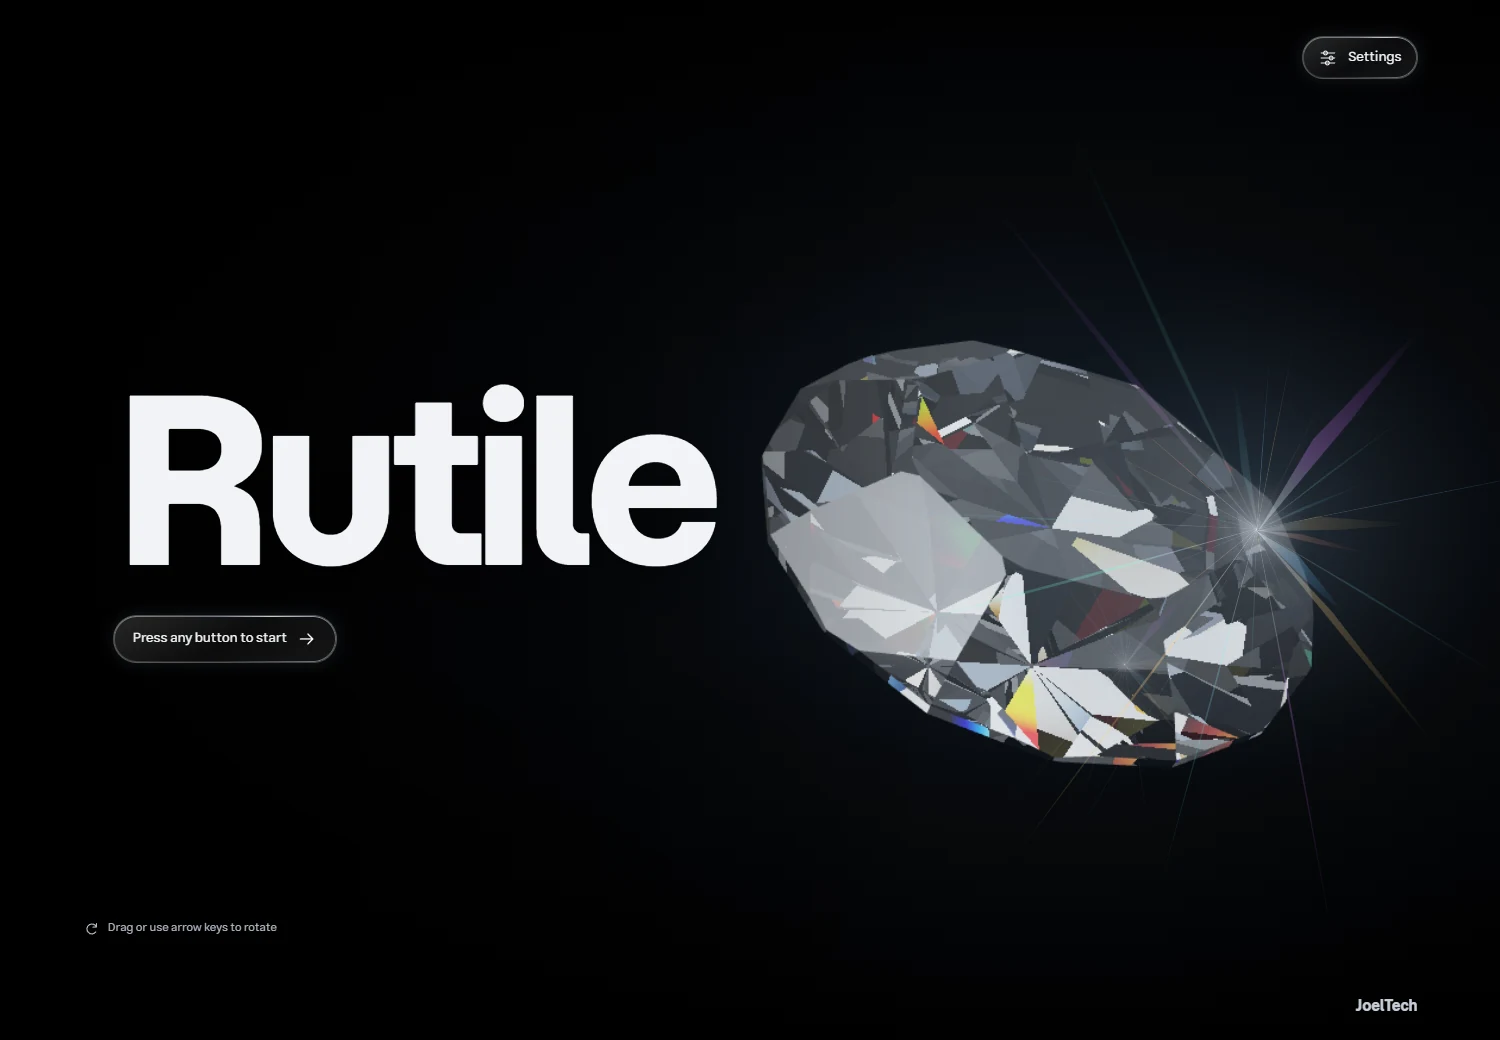
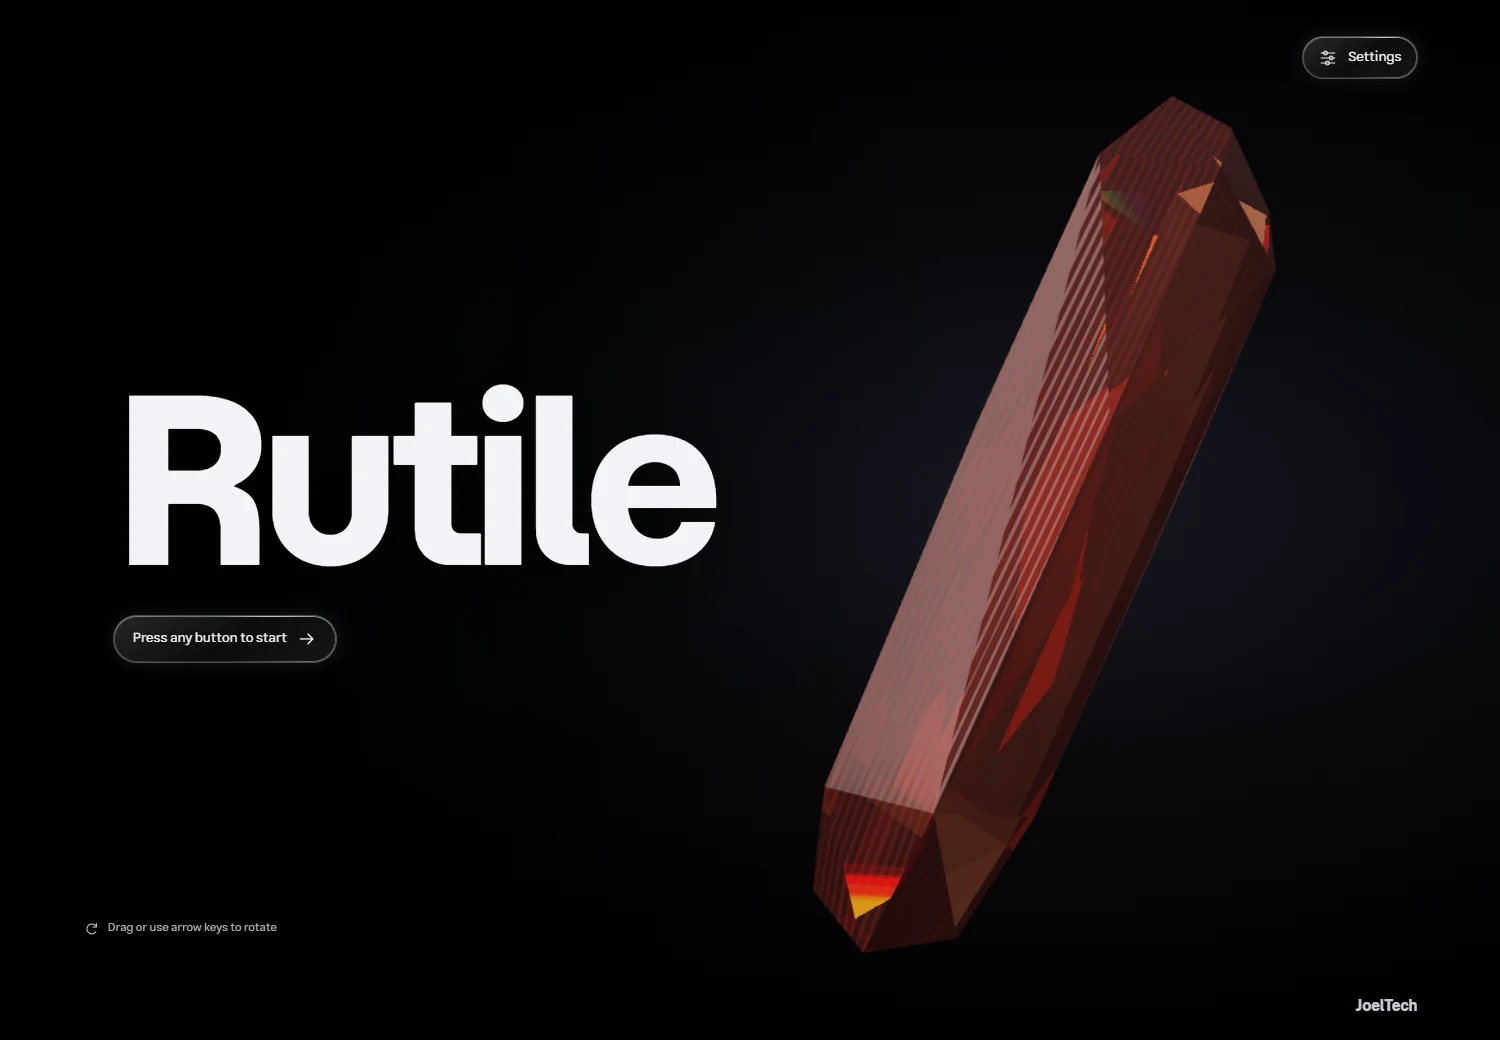
Improve natural rutile crystal appearance

Changed region(s): [[0.4907, 0.0923, 0.92, 0.9231]]

diff --git a/frontend/src/js/gem-optics.js b/frontend/src/js/gem-optics.js
@@ -94,11 +94,26 @@ void main() {
   vec3 normal = facet;
   float veins = 0.;
   if (natural) {
-    veins = grain(surface * vec3(55., 8., 55.)) * .65 + grain(surface * vec3(168., 24., 168.)) * .35;
-    vec3 streak = vec3(
-      grain(surface * vec3(72., 5., 40.)), grain(surface * 38.),
-      grain(surface * vec3(43., 7., 81.))) - .5;
-    normal = normalize(normal + streak * (.075 + .13 * veins));
+    // Growth striations run along the crystal's y axis. Measure across each
+    // face in its own tangent direction rather than stretching 3-D noise.
+    vec3 across = cross(vec3(0., 1., 0.), facet);
+    float side = length(across);
+    across /= max(side, .0001);
+    float u = dot(surface, across);
+    float warp = (grain(vec3(u * 9., surface.y * .7, 1.3)) - .5) * .012;
+    warp += (grain(vec3(u * 32., surface.y * 1.8, 4.7)) - .5) * .003;
+    float phase = (u + warp) * 260.;
+    float finePhase = (u + warp * .55) * 570.;
+    // Fade subpixel grooves to avoid flickering as the specimen rotates.
+    float visible = 1. - smoothstep(.7, 2.5, fwidth(phase));
+    float fineVisible = 1. - smoothstep(.7, 2.5, fwidth(finePhase));
+    float variation = grain(vec3(u * 24., surface.y * 2.4, 2.1));
+    float weathering = grain(surface * vec3(38., 9., 38.)) - .5;
+    float groove = (sin(phase) * visible + .32 * sin(finePhase) * fineVisible)
+      * (.45 + .8 * variation) + .22 * weathering;
+    float striated = smoothstep(.12, .5, side);
+    normal = normalize(facet + across * groove * .075 * striated);
+    veins = (.5 + .5 * sin(phase)) * visible * striated;
   }
 
   float index = natural ? 2.54 : 2.64;
@@ -112,8 +127,16 @@ void main() {
     vec3 wall;
     float length = exitDistance(point, ray, wall);
     if (length >= 100.) break;
+    if (natural && bounce == 0) {
+      // Two interior samples suggest inclusions and cloudy growth zones;
+      // this is an artistic volume approximation, not measured material data.
+      float cloud = grain((point + ray * length * .30) * vec3(7., 3., 7.));
+      cloud = .65 * cloud + .35 * grain((point + ray * length * .68) * vec3(15., 6., 15.));
+      energy *= exp(-vec3(.18, .40, .48) * cloud * length);
+      color += energy * vec3(.055, .012, .008) * cloud * length;
+    }
     point += ray * length;
-    if (natural) energy *= exp(-vec3(.42, 3.25, 5.2) * length * (.72 + .58 * veins));
+    if (natural) energy *= exp(-vec3(.42, 3.25, 5.2) * length);
     float cosine = max(0., dot(ray, wall));
     float reflectionAtWall = fresnel(cosine, index);
     vec3 red = refract(ray, -wall, index - (natural ? .026 : .067));

diff --git a/frontend/src/js/gem-models.js b/frontend/src/js/gem-models.js
@@ -28,9 +28,9 @@ function brilliantPlanes() {
 
 function naturalPlanes() {
   const rings = [
-    [-1.18, .14, -.075, .03], [-.97, .35, -.06, -.03],
-    [-.27, .37, -.01, -.025], [.76, .32, .055, .02],
-    [1.12, .19, -.01, .045],
+    [-1.20, .23, -.035, .005], [-.98, .35, -.025, 0],
+    [-.20, .36, 0, 0], [.83, .35, .02, 0],
+    [1.15, .25, .025, .005],
   ];
   const points = rings.flatMap(([height, radius, offset, twist], ring) =>
     Array.from({length: 6}, (_, side) => {

diff --git a/frontend/src/js/shell.js b/frontend/src/js/shell.js
@@ -25,9 +25,9 @@ let drag;
 function readPreferences() {
   try {
     const value = JSON.parse(localStorage.getItem(key));
-    return {specimen: value?.specimen === 'natural' ? 'natural' : 'lab', reduce: value?.reduce === true};
+    return {specimen: value?.specimen === 'lab' ? 'lab' : 'natural', reduce: value?.reduce === true};
   } catch {
-    return {specimen: 'lab', reduce: false};
+    return {specimen: 'natural', reduce: false};
   }
 }
 

diff --git a/docs/ui-ux.md b/docs/ui-ux.md
@@ -7,7 +7,7 @@
 - **Main menu.** The camera changes angle and approaches the same crystal until its facets fill the backdrop. The crystal turns very slowly while the menu is idle. The glass tiles open **Generate phase diagrams**, **Alloy studio**, and **Settings**. One disabled **Under construction** tile reserves space for future materials workflows.
 - **Alloy studio.** The second menu tile opens a submenu with **Optimize alloy** and **Create alloy**. Optimize alloy opens a five-step setup preview: alloy family, composition, processing, goals and limits, and review. Create alloy shares the same families and processing controls, but uses exact composition amounts (including an editable base amount and a Use balance shortcut), validates a 100% total, and skips goals and limits in navigation and review. Both paths retain wt%/at% basis selection without implicit conversion. Step changes return to the top with focus on the step heading so the shell Back button stays available; there is no intro badge or duplicate progress row. The family aside names the source; assessment limitations remain in source help and review. The shared crystal zoom introduces the page. A large tile grid shows Mg, Al, Ti, Fe, Ni, Co, Cu, Zn, Zr, Ag, W, Pt, Au, and Pb in increasing atomic-weight order, followed by an Other tile with a + symbol. Ni precedes Co by atomic weight. The compact family buttons use beveled square symbols with glass lighting. Al, Fe, and Ni glow and have available setup previews; other families and Other are gray and disabled. Fe has a subtle red tint and Ni a subtle green tint. The grid reflows without horizontal scrolling on mobile. MatCalc sources and named mobility companions ship in the data folder and are available to the processing simulation by default; their assessment coverage is not automatically established. The optimizer entry retains the shared crystal zoom but never draws the Ti/O lattice. No atoms appear before family selection. Selecting Al lights up the atoms in a fixed FCC aluminum reference lattice one by one (instant with reduced motion) with nearest-neighbor links, using the same depth-layer renderer and settled high-DPI cache as the rutile scene. The conventional cell has corner and face-center sites. Its spacing and orientation are for display; it does not represent a calculated alloy state, and adding elements does not relabel the FCC Al sites. Opening Composition smoothly magnifies the lattice by 30% as it dims to 16% opacity. Later steps retain this view; returning to the family step restores the original framing. Reduced motion applies the framing immediately, and magnified caches retain native pixel density. Leaving the optimizer preserves the selected reference lattice during the return transition.
 - **Settings background.** The camera accelerates into a facet as the TiO₂ lattice comes into view. The two scenes overlap during the dive. The lens widens during the move and eases into the final field of view. Near, middle, and far atoms scale at different rates to give the lattice depth. The close framing shows fewer atoms, with space between the red O and blue Ti spheres. Each sphere has a luminous rim, soft bloom, and reflections tinted by nearby bonded neighbours. The lattice holds its orientation after the camera arrives, and atoms and bonds fade into black at the sides and in the distance. The browser caches each depth layer beyond the viewport at its widest point and renders the gem at a lower resolution during the move. When the GPU is busy, the next frame uses the current camera pose and draws the gem and lattice together. The scene uses a repeated tetragonal unit cell and simplified bonds. [Rutile crystallographic coordinates](https://github.com/cryos/avogadro/blob/master/crystals/oxides/TiO2-Rutile.cif)
-- **Settings.** Lab-grown rutile is the default. Natural rutile is a single irregular, oblong red crystal with steady reflections and no prismatic rays. The selection applies when returning to the title or menu and on subsequent launches at the same app address. **Reduce motion** also persists there and skips the logo intro, holds the camera still, and suppresses rays and transitions. The app honors the operating system’s reduced-motion preference.
+- **Settings.** Natural rutile is the default: a single irregular, oblong red crystal with steady reflections and no prismatic rays. The selection applies when returning to the title or menu and on subsequent launches at the same app address. **Reduce motion** also persists there and skips the logo intro, holds the camera still, and suppresses rays and transitions. The app honors the operating system’s reduced-motion preference.
 - **Materials Project settings.** Settings includes a password field, Save key, Clear session key, and a status identifying session or server environment configuration. A saved session key stays in server memory until restart, overrides any environment key, and is cleared from the field after submission. It is never saved in browser storage or run files. Clearing it restores any environment key. Failed saves keep the previous configuration and show an error. Key format is checked at save; authentication occurs during reference lookup. Appearance and integration controls sit side by side on desktop and stack on narrow screens.
 - **Phase diagrams.** The shared entry zoom moves into the crystal and settles onto black, without a Ti/O lattice. The workspace uses the full window width with a larger center plot and bounded sidebars. Start with the setup panel filling the workspace: upload one thermodynamic file and choose two elements. Temperature in K, pressure in Pa, quality, and boundary tolerance are under **Calculation settings**, with Detailed selected by default. Creating a diagram reveals a second panel from the right, splitting the full workspace equally. It reports the current stage, boundary point count or independent check rows, and elapsed time. The progress bar sits directly under the current stage heading. Continuation has indeterminate progress; mapping batches and checks report counted progress. There is no pulsing calculation banner. Real partial boundaries and completed sample rows appear as they become available, labeled as an incomplete preview. On completion the panel becomes the diagram and the inspector enters on the right. Narrow screens stack the panels, and reduced motion suppresses transitions. Cancellation or failure preserves an explicitly incomplete preview without enabling export. The workspace keeps job state when returning to the menu.
 - **Diagram inspection.** Solids use vibrant colors and liquid is always black; mixed fields blend by molar phase amounts. Labels use leader arrows when space is limited, preferring open pure-liquid space before the right margin. Drag a label to move it; keyboard focus plus arrow keys moves it too, with Shift for larger steps. The anchor remains fixed at its phase location. Reset label positions restores automatic placement. Positions last for the current run and do not change exported scientific data. Red crosses identify independent sample disagreements outside the boundary tolerance (0.25% of axis span by default). Ignored differences remain inspectable. The sample count and overlay toggle sit together under Independent checks, followed by readable counted status badges. The red-cross explanation appears only when disagreements exist. Beveled phase-color chips use black or white text chosen for contrast. New uploads clear the previous result and legend; previews display only their current phases while retaining assigned colors within a run. The sample overlay, keyboard inspection, and textual check summary provide alternatives to color alone. Hover or tap to inspect, use arrow keys to move when the plot has focus, and Enter or Escape to pin or unpin. Cursor values derived from boundary interpolation are identified separately from nearest-sample results. JSON exports preserve boundaries, checks, settings, warnings, and provenance.
@@ -52,7 +52,7 @@ Use black backgrounds, mostly grayscale surfaces, white type, and JoelTech blue 
 
 Use Momo Trust Display for titles and accents and Estedad for body, control, and plot text. Both fonts ship locally under the SIL Open Font License. [Momo Trust Display](https://github.com/typeassociates/MomoTrustDisplay) · [Estedad](https://github.com/aminabedi68/Estedad)
 
-The lab-grown gem uses a round brilliant cut with a table, crown, girdle, pavilion, and culet. The natural specimen uses irregular red crystal faces with surface striations and wavelength-dependent absorption. The WebGL renderer uses virtual studio lights and traces internal reflections and refraction through the gem facets. The Canvas fallback uses the same geometry with simpler lighting. Both scenes support pointer and keyboard rotation and pause when the tab is hidden. The scene runs in native JavaScript without downloaded artwork or a graphics library. [GIA round brilliant anatomy](https://4cs.gia.edu/en-us/diamond-cut/)
+The lab-grown gem uses a round brilliant cut with a table, crown, girdle, pavilion, and culet. The natural specimen uses elongated red crystal faces, procedural lengthwise growth striations, approximate internal cloudiness, and wavelength-dependent absorption. These are artistic effects rather than measured material properties. The WebGL renderer uses virtual studio lights and traces internal reflections and refraction through the gem facets. The Canvas fallback uses the same geometry with simpler lighting. Both scenes support pointer and keyboard rotation and pause when the tab is hidden. The scene runs in native JavaScript without downloaded artwork or a graphics library. [GIA round brilliant anatomy](https://4cs.gia.edu/en-us/diamond-cut/)
 
 ## Planned alloy-design sequence
 

diff --git a/README.md b/README.md
@@ -5,7 +5,7 @@ phase diagrams from thermodynamic databases or use the **Alloy studio** to simul
 equilibrium during melting and cooling for Al-, Fe-, and Ni-based alloys. It currently 
 models density and stiffness, though more attributes are being added.
 
-![Rutile title screen with the faceted lab-grown crystal and prismatic light rays](docs/images/title-screen.webp)
+![Rutile title screen with the natural red crystal](docs/images/title-screen.webp)
 
 ## Setup and run
 
